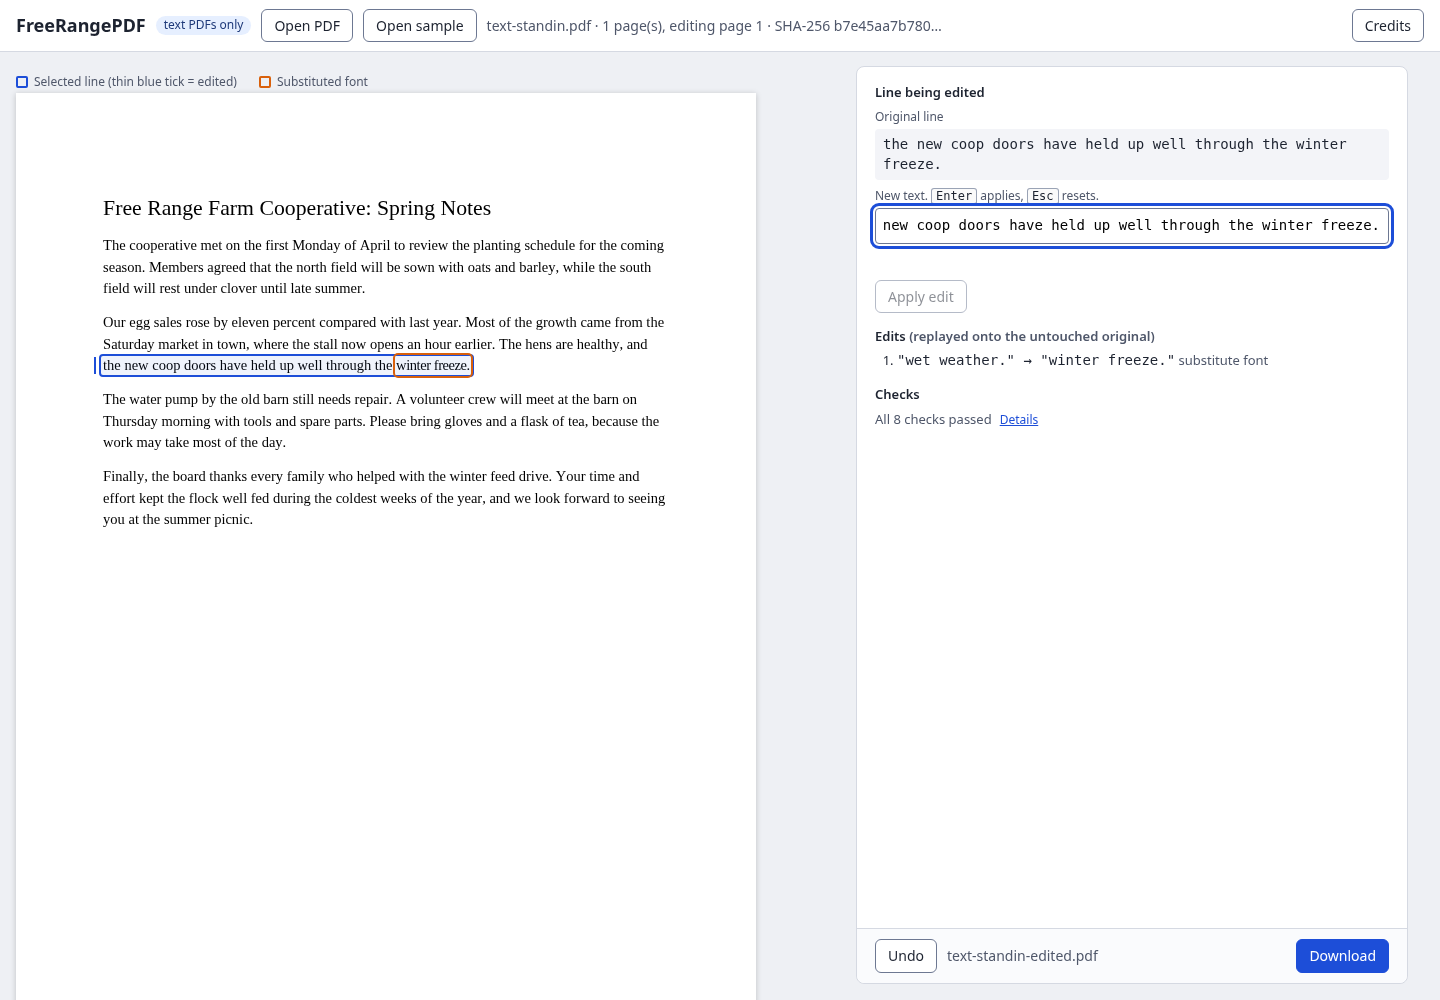
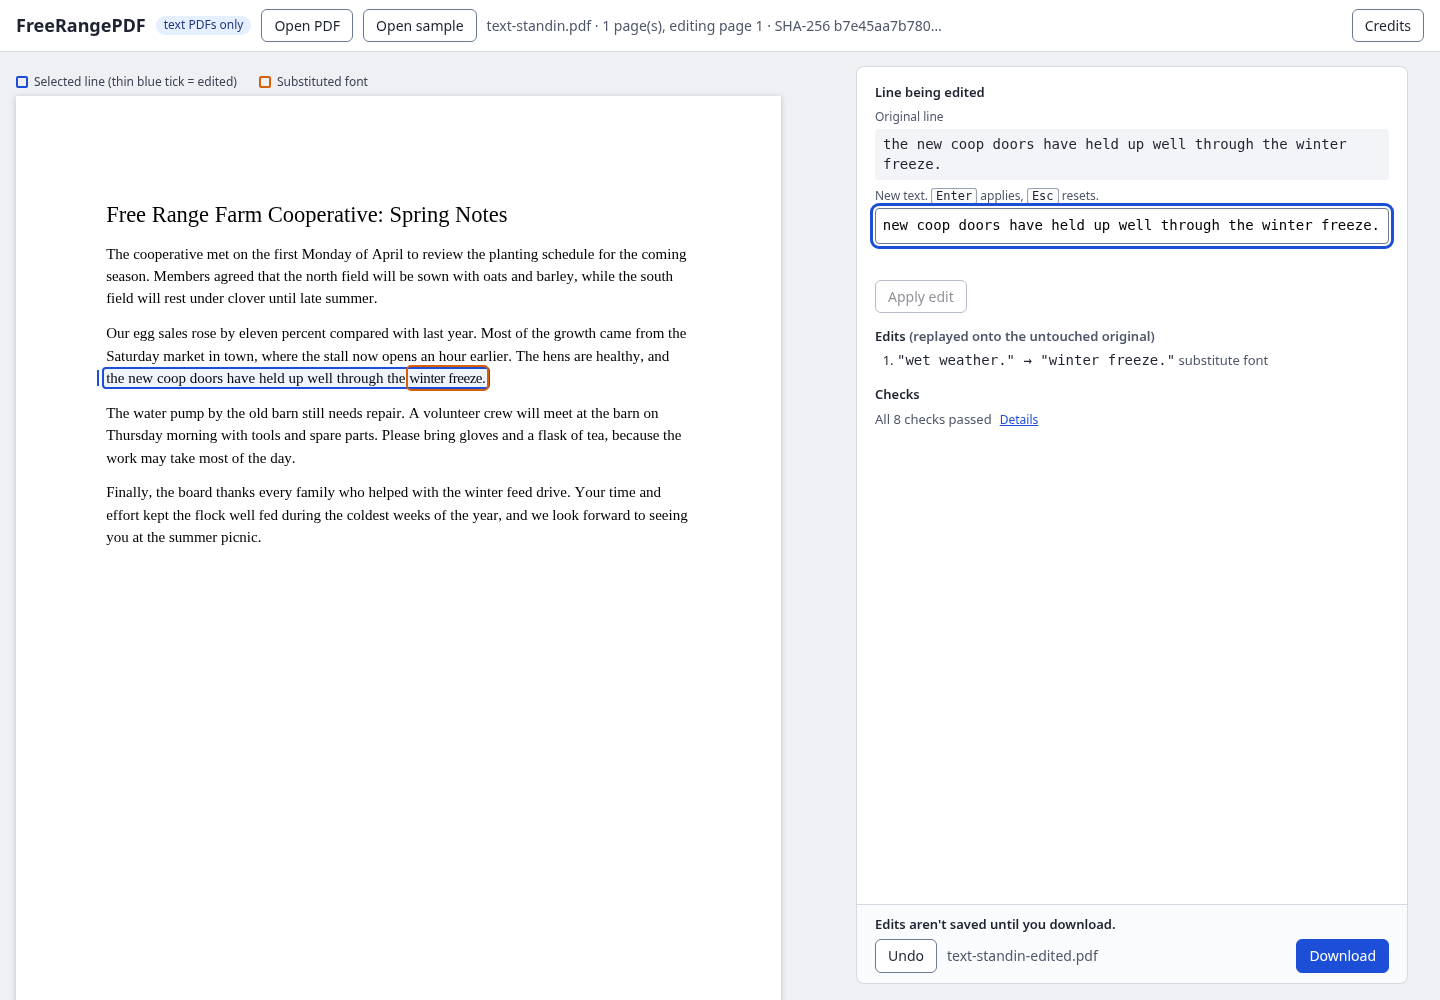
Editor: approved wording (no PLACEHOLDER, no pt figures), unsaved-edits line, queued undo, page scale, legend contrast, failed-open message

Changed region(s): [[0.0625, 0.186, 0.4688, 0.558], [0.5938, 0.899, 0.7812, 0.93], [0.5, 0.093, 0.5312, 0.124]]

diff --git a/app/app.js b/app/app.js
@@ -5,25 +5,34 @@ import { classifyPages } from '../src/lib/classify.js';
 import { renderPage, sha256, diff, pdfjsLib, openPdf } from '../src/lib/img-util.js';
 
 const SUBST_SENTENCE = "This PDF's font doesn't include every letter you typed, so the outlined text uses a close substitute font and may look slightly different.";
-const PH = 'PLACEHOLDER (wording for Berean): ';
 const MSG = {
-  notText: PH + 'This page has no editable text layer (it looks like a scan or a photo). This editor only changes PDFs that contain real text.',
-  tooLong: (o) => PH + `The new text is too long for the space it replaces (${o.over} pt over). Words to its right may not move, so nothing was changed.`,
-  cantEdit: "This line can't be edited here. Nothing was changed.", // draft wording (Berean to confirm); used for every unsupported line / unexpected error
-  password: "This PDF is password-protected, so it can't be opened here. Nothing was changed.", // draft, Berean to confirm
-  restricted: PH + "This PDF has editing restrictions, so it can't be edited here. Nothing was changed.",
-  empty: 'Type some text first. An empty line can\u2019t be applied.', // draft
+  notText: 'This page is a picture, like a scan or photo, so it has no text to edit. This editor only changes PDFs made of real text. Nothing was changed.',
+  tooLong: "That's too long to fit where the old words were, and the words after it can't move. Try something shorter. Nothing was changed.",
+  notFound: "I couldn't find those words in this file. Nothing was changed.",
+  cantEdit: "This line can't be edited here. The file stores it in a way this editor can't change safely. Nothing was changed.",
+  generic: "This edit couldn't be applied. Nothing was changed.",
+  password: "This PDF is password-protected, so it can't be opened here. Remove the password first, then try again.",
+  restricted: "This PDF is password-protected, so it can't be opened here. Remove the password first, then try again.", // owner-restricted PDFs: same approved wording
+  empty: 'Type the new text first. To remove words, delete them and keep the rest of the line.',
   charShort: "This character can't be used here",
   charLong: (c) => `This editor can't write that character: ${c}. Use letters, numbers and common punctuation.`,
-  unreadable: PH + 'This file could not be opened as a PDF. Nothing was changed.',
-  verifyFailed: PH + 'The edited file did not pass our re-open check, so Download is not offered.',
+  unreadable: "This file couldn't be opened as a PDF. Nothing was changed.",
+  verifyFailed: "The edited file didn't pass our check, so Download isn't offered. Your original is untouched.",
+  busy: 'Applying your edit, one moment.',
+  unsaved: "Edits aren't saved until you download.",
+  openFailedAfter: "That file couldn't be opened. The earlier file is closed.",
+  fits: 'Fits the old space.',
+  gap: (n) => `Shorter than the old word, so a gap of about ${n} ${n === 1 ? 'letter' : 'letters'} is left. Nothing to the right moves.`,
 };
 const $ = id => document.getElementById(id);
-const S = { name: '', orig: null, origSha: null, edits: [], cur: null, curRes: [], lines: [], vb: null, scale: 1, sel: -1, verified: false, busy: false, previewSeq: 0, lastPreview: null };
+const S = { pending: false, queuedUndo: false, name: '', orig: null, origSha: null, edits: [], cur: null, curRes: [], lines: [], vb: null, scale: 1, sel: -1, verified: false, busy: false, previewSeq: 0, lastPreview: null };
 const norm = t => (t || '').replace(/\s+/g, ' ').trim();
 const blobUrl = u8 => URL.createObjectURL(new Blob([u8], { type: 'application/pdf' }));
 const b64ToU8 = b => Uint8Array.from(atob(b), c => c.charCodeAt(0));
-function setBusy(b) { S.busy = b; $('busyflag').hidden = !b; $('rbody').setAttribute('aria-busy', b ? 'true' : 'false'); $('undo').disabled = b || !S.edits.length; if (b) $('download').disabled = true; }
+function refreshUndo() { $('undo').disabled = S.busy || S.pending || !S.edits.length; }
+function refreshNotes() { $('busynote').hidden = !(S.busy && S.rebuilding || S.pending); $('unsaved').hidden = !(S.edits.length && JSON.stringify(S.edits) !== S.savedKey); }
+function setBusy(b, rebuilding = false) { S.busy = b; S.rebuilding = b && rebuilding; $('busyflag').hidden = !b; $('rbody').setAttribute('aria-busy', b ? 'true' : 'false'); if (b) $('download').disabled = true; refreshUndo(); refreshNotes(); if (!b) runQueuedUndo(); }
+function runQueuedUndo() { if (S.queuedUndo && !S.busy && !S.pending) { S.queuedUndo = false; setTimeout(undo, 0); } }
 // Apply states: 'ok' (enabled), 'off' (nothing to apply), 'blocked' (looks disabled, still reachable: pressing it explains why; never applies)
 function setApply(state) { const a = $('apply'); S.applyState = state; a.disabled = state === 'off'; a.setAttribute('aria-disabled', state === 'ok' ? 'false' : 'true'); a.classList.toggle('blocked', state === 'blocked'); }
 const EMOJI_OK = new Set(['\u00a9', '\u00ae', '\u2122']);
@@ -62,7 +71,7 @@ function deriveEdit(oldT, newT) {
 async function showCurrent() {
   const rl = await readLines(S.cur); S.lines = rl.lines; S.vb = rl.viewBox;
   const doc = await openPdf(S.cur); const page = await doc.getPage(1);
-  const base = page.getViewport({ scale: 1 }); const sizes = S.lines.map(l => l.size).sort((a, b) => a - b); const medSize = sizes[sizes.length >> 1] || 11; S.scale = Math.min(824 / base.width, 14.5 / medSize); const vp = page.getViewport({ scale: S.scale });
+  const base = page.getViewport({ scale: 1 }); const sizes = S.lines.map(l => l.size).sort((a, b) => a - b); const medSize = sizes[sizes.length >> 1] || 11; S.scale = Math.min(824 / base.width, 15 / medSize); /* fit the left column (824 px), but keep body text at most 15 px */ const vp = page.getViewport({ scale: S.scale });
   const c = $('page'); c.width = Math.round(vp.width); c.height = Math.round(vp.height);
   const ctx = c.getContext('2d'); ctx.fillStyle = '#fff'; ctx.fillRect(0, 0, c.width, c.height);
   await page.render({ canvasContext: ctx, viewport: vp, background: 'rgb(255,255,255)' }).promise; await doc.destroy();
@@ -110,19 +119,20 @@ async function preview() {
   try {
     const r = await applyOne(S.cur, e); if (seq !== S.previewSeq) return;
     showPreview(r, e);
-  } catch (err) { if (seq !== S.previewSeq) return; resetPreview(); console.warn('preview failed:', err && err.message); showRefusal(MSG.cantEdit); }
+  } catch (err) { if (seq !== S.previewSeq) return; resetPreview(); console.warn('preview failed:', err && err.message); showRefusal(...errMsg(err)); }
 }
 function showCharMark(t) { // orange underline under each unsupported character + the short inline message
   const m = $('charmirror'); m.textContent = ''; for (const ch of t) { if (badChar(ch)) { const sp = document.createElement('span'); sp.className = 'badch'; sp.textContent = /\p{Cc}|\p{Cf}/u.test(ch) ? '\u00b7' : ch; m.appendChild(sp); } else m.appendChild(document.createTextNode(ch)); }
   $('charmsg').textContent = MSG.charShort; $('charmark').hidden = false;
 }
-function showRefusal(text) { $('refuse').hidden = false; $('refuse').textContent = text; $('status').textContent = ''; setApply('off'); }
-function widthNote(o) { // plain-words draft (wording is Berean's)
-  if (o.gapPt > 0) return `Shorter by ${o.gapPt.toFixed(1)} pt. The words to the right stay where they are, so a gap remains.`;
+function showRefusal(text, reason) { const r = $('refuse'); r.hidden = false; r.textContent = text; if (reason) { const d = document.createElement('div'); d.className = 'reason'; d.textContent = reason; r.appendChild(d); } $('status').textContent = ''; setApply('off'); }
+function errMsg(err) { const m = (err && err.message) || ''; if (err && err.refused) return [MSG.tooLong]; if (/not found/.test(m)) return [MSG.notFound]; if (/exactly once|cannot|unsupported/i.test(m)) return [MSG.cantEdit]; return [MSG.generic, m || String(err)]; }
+function widthNote(o, e) {
+  if (o.gapPt > 0) { const len = Math.max(1, (e.replace || '').length), n = Math.max(1, Math.round(o.gapPt / ((o.naturalWidthPt || 1) / len))); return MSG.gap(n); }
   const parts = []; const sp = o.spacingEm || 0, sc = o.scale || 1;
-  if (Math.abs(sp) >= 0.0005) parts.push(`letters ${sp < 0 ? 'tightened' : 'loosened'} by ${(Math.abs(sp) * 100).toFixed(0)}%`);
-  if (Math.abs(sc - 1) >= 0.0005) parts.push(`text ${sc < 1 ? 'narrowed' : 'widened'} by ${(Math.abs(sc - 1) * 100).toFixed(0)}%`);
-  return parts.length ? `Fits: ${parts.join(', ')}.` : 'Fits: same width, nothing adjusted.';
+  if (Math.abs(sp) >= 0.0005) parts.push(`Letters ${sp < 0 ? 'tightened' : 'loosened'} by ${(Math.abs(sp) * 100).toFixed(0)}%.`);
+  if (Math.abs(sc - 1) >= 0.0005) parts.push(`Text ${sc < 1 ? 'narrowed' : 'widened'} by ${(Math.abs(sc - 1) * 100).toFixed(0)}%.`);
+  return parts.length ? `Fits. ${parts.join(' ')}` : MSG.fits;
 }
 // preview strip: ONLY the edited line (+4 px), 8 px padding, rendered from the trial result; orange box when the font is substituted
 async function drawStrip(r, line) {
@@ -135,10 +145,10 @@ async function drawStrip(r, line) {
 }
 function showPreview(r, e) {
   for (const id of ['gapbar', 'subst', 'refuse', 'crop']) $(id).hidden = true; const o = r.overflow;
-  if (r.refused) { showRefusal(MSG.tooLong({ over: (-o.leftoverAfterSpacingAndScalePt).toFixed(2) })); S.lastPreview = null; return; }
+  if (r.refused) { showRefusal(MSG.tooLong); S.lastPreview = null; return; }
   const slot = o.slotPt, nat = o.naturalWidthPt; $('gapbar').hidden = false;
   const drawn = o.gapPt > 0 ? nat : slot; $('gapnat').style.width = (drawn / slot * 100) + '%'; $('gapgap').style.width = (o.gapPt > 0 ? o.gapPt / slot * 100 : 0) + '%';
-  $('gaptext').textContent = widthNote(o);
+  $('gaptext').textContent = widthNote(o, e);
   if (r.font.used === 'fallback') { $('subst').hidden = false; $('subst').textContent = SUBST_SENTENCE; }
   drawStrip(r, S.lines[S.sel]).catch(err => console.error("strip", err.message));
   $('status').textContent = `Ready: "${e.find}" \u2192 "${e.replace}"`; setApply('ok'); S.lastPreview = e;
@@ -146,30 +156,37 @@ function showPreview(r, e) {
 
 // ---- apply / undo / verify ----
 async function rebuild() {
-  setBusy(true); try {
+  setBusy(true, true); try {
     if (!S.edits.length) { S.cur = S.orig.slice(); S.curRes = []; } else { const { bytes, results } = await replay(S.edits); S.cur = bytes; S.curRes = results; }
     await showCurrent(); renderEdits(); await verify();
   } finally { setBusy(false); }
 }
 $('apply').addEventListener('click', tryApply);
 function tryApply() { // Apply is pressed (button or Enter)
-  if (S.busy) return; clearTimeout(timer);
+  if (S.busy || S.pending) return; clearTimeout(timer);
   if (S.applyState === 'ok') return applyEdit();
   const t = $('newtext').value, bad = findBad(t);
   if (bad.length) { showCharMark(t); $('charmsg').textContent = MSG.charLong(showCp(bad[0])); return; } // longer sentence only when Apply is pressed; nothing is applied
   if (!t.trim()) { $('status').textContent = MSG.empty; return; }
-  preview().then(() => { if (S.applyState === 'ok') applyEdit(); });
+  S.pending = true; refreshUndo(); refreshNotes();
+  preview().then(() => { if (S.applyState === 'ok') return applyEdit(true); }).finally(() => endPending());
 }
-async function applyEdit() {
-  if (!S.lastPreview || S.busy) return; const e = { ...S.lastPreview }; delete e.line; S.edits.push(e); setApply('off');
+function endPending() { S.pending = false; refreshUndo(); refreshNotes(); runQueuedUndo(); }
+async function applyEdit(inChain) {
+  if (!S.lastPreview || S.busy) return; const e = { ...S.lastPreview }; delete e.line; S.edits.push(e); setApply('off'); S.pending = true; refreshUndo(); refreshNotes();
   try { await rebuild(); $('newtext').value = S.lines[S.sel]?.text || ''; resetPreview(); }
-  catch (err) { S.edits.pop(); await rebuild(); showRefusal(err.refused ? MSG.tooLong({ over: '?' }) : MSG.cantEdit); }
+  catch (err) { S.edits.pop(); S.queuedUndo = false; await rebuild(); showRefusal(...errMsg(err)); }
+  finally { if (!inChain) endPending(); }
 }
-async function undo() { if (!S.edits.length || S.busy) return; S.edits.pop(); await rebuild(); if (S.sel >= 0) { $('newtext').value = S.lines[S.sel]?.text || ''; resetPreview(); } }
-$('undo').addEventListener('click', undo);
+function requestUndo() { // never silent: while an apply is starting/running the undo is queued and the user is told why
+  if (S.busy || S.pending) { S.queuedUndo = true; $('busynote').hidden = false; return; }
+  undo();
+}
+async function undo() { if (!S.edits.length || S.busy || S.pending) return; S.edits.pop(); await rebuild(); if (S.sel >= 0) { $('newtext').value = S.lines[S.sel]?.text || ''; resetPreview(); } }
+$('undo').addEventListener('click', requestUndo);
 function renderEdits() {
-  $('edits').innerHTML = S.edits.map((e, k) => { const r = S.curRes[k]; return `<li><span class="mono">"${esc(e.find)}" \u2192 "${esc(e.replace)}"</span> <span class="muted">${r ? (r.font.used === 'fallback' ? 'substitute font' : 'original font') + (r.overflow.gapPt > 0 ? `, gap ${r.overflow.gapPt.toFixed(1)} pt` : '') : ''}</span></li>`; }).join('') || '<li class="muted">none</li>';
-  $('undo').disabled = S.busy || !S.edits.length;
+  $('edits').innerHTML = S.edits.map((e, k) => { const r = S.curRes[k]; return `<li><span class="mono">"${esc(e.find)}" \u2192 "${esc(e.replace)}"</span> <span class="muted">${r ? (r.font.used === 'fallback' ? 'substitute font' : 'original font') + (r.overflow.gapPt > 0 ? `, small gap left` : '') : ''}</span></li>`; }).join('') || '<li class="muted">none</li>';
+  refreshUndo(); refreshNotes();
 }
 const esc = s => s.replace(/[&<>"]/g, c => ({ '&': '&amp;', '<': '&lt;', '>': '&gt;', '"': '&quot;' }[c]));
 function outName() { const b = S.name.replace(/\.pdf$/i, ''); return (/-edited(-\d+)?$/.test(b) ? b.replace(/-edited(-(\d+))?$/, (m, x, n) => `-edited-${(+n || 1) + 1}`) : b + '-edited') + '.pdf'; }
@@ -202,20 +219,20 @@ async function verify() {
   sum.className = nbad ? 'fail' : 'muted'; sum.textContent = nbad ? `${nbad} of ${items.length} checks failed` : `All ${items.length} checks passed`;
   det.hidden = false; ul.hidden = !nbad; det.textContent = nbad ? 'Hide details' : 'Details'; // failed checks stay open
   S.verified = items.every(i => i[0]);
-  if (S.verified) { $('download').disabled = false; $('dlname').textContent = outName(); } else { $('dlname').textContent = ''; sum.textContent += '. ' + MSG.verifyFailed; }
+  if (S.verified) { $('download').disabled = false; $('dlname').textContent = outName(); } else { $('dlname').textContent = ''; sum.textContent = MSG.verifyFailed; const rs = document.createElement('div'); rs.className = 'reason'; rs.textContent = `${nbad} of ${items.length} checks failed: ` + items.filter(i => !i[0]).map(i => i[1]).join('; '); sum.appendChild(rs); }
 }
 $('checkdetails').addEventListener('click', ev => { ev.preventDefault(); const ul = $('checks'); ul.hidden = !ul.hidden; $('checkdetails').textContent = ul.hidden ? 'Details' : 'Hide details'; });
-$('download').addEventListener('click', () => { if (!S.verified) return; const a = document.createElement('a'); a.href = blobUrl(S.cur); a.download = outName(); a.click(); S.savedKey = JSON.stringify(S.edits); setTimeout(() => URL.revokeObjectURL(a.href), 5000); });
+$('download').addEventListener('click', () => { if (!S.verified) return; const a = document.createElement('a'); a.href = blobUrl(S.cur); a.download = outName(); a.click(); S.savedKey = JSON.stringify(S.edits); refreshNotes(); setTimeout(() => URL.revokeObjectURL(a.href), 5000); });
 
 // ---- open ----
 function resetDoc() { // FIRST thing on every open: nothing of a previous document may stay live
-  S.cur = null; S.orig = null; S.origSha = null; S.edits = []; S.curRes = []; S.lines = []; S.sel = -1; S.verified = false; S.lastPreview = null; S.savedKey = null; S.name = ''; S.previewSeq++;
-  clearTimeout(timer); $('download').disabled = true; $('undo').disabled = true; $('dlname').textContent = ''; setApply('off'); $('docinfo').textContent = '';
+  S.cur = null; S.orig = null; S.queuedUndo = false; S.pending = false; S.origSha = null; S.edits = []; S.curRes = []; S.lines = []; S.sel = -1; S.verified = false; S.lastPreview = null; S.savedKey = null; S.name = ''; S.previewSeq++;
+  clearTimeout(timer); $('download').disabled = true; $('undo').disabled = true; refreshNotes(); $('dlname').textContent = ''; setApply('off'); $('docinfo').textContent = '';
   $('editor').hidden = true; $('nosel').hidden = false; $('nosel').className = 'muted'; $('nosel').textContent = 'No line selected.'; $('overlay').innerHTML = ''; $('legendwrap').hidden = true;
   const c = $('page'); c.width = 1; c.height = 1; $('checks').hidden = true; $('checkdetails').hidden = true; $('checksum').className = 'muted'; $('checksum').textContent = 'No edits yet.'; $('edits').innerHTML = '';
   for (const id of ['gapbar', 'subst', 'refuse', 'crop', 'charmark']) $(id).hidden = true;
 }
-function failOpen(text) { resetDoc(); $('nosel').className = 'refuse'; $('nosel').textContent = text; }
+function failOpen(text) { resetDoc(); $('nosel').className = 'refuse'; $('nosel').textContent = text; if (S.everOpened) { const d = document.createElement('div'); d.className = 'reason'; d.textContent = MSG.openFailedAfter; $('nosel').appendChild(d); } }
 let openSeq = 0;
 async function openBytes(u8, name) {
   const my = ++openSeq; resetDoc(); setBusy(true);
@@ -228,7 +245,7 @@ async function openBytes(u8, name) {
       return failOpen(MSG.unreadable); }
     const cls = classifyPages(pd)[0];
     const sha = await sha256(u8); if (my !== openSeq) return;
-    S.name = name; S.orig = new Uint8Array(u8); S.origSha = sha; S.edits = []; S.curRes = []; S.sel = -1; S.cur = S.orig.slice();
+    S.everOpened = true; S.name = name; S.orig = new Uint8Array(u8); S.origSha = sha; S.edits = []; S.curRes = []; S.sel = -1; S.cur = S.orig.slice();
     $('docinfo').textContent = `${name}  \u00b7  ${pd.getPageCount()} page(s), editing page 1  \u00b7  SHA-256 ${S.origSha.slice(0, 12)}\u2026`;
     if (cls.route !== 'text') { const msg = MSG.notText; await showCurrent().catch(() => {}); if (my !== openSeq) return; $('nosel').className = 'refuse'; $('nosel').textContent = msg; $('overlay').innerHTML = ''; S.lines = []; return; }
     await showCurrent(); if (my !== openSeq) return; $('legendwrap').hidden = false; renderEdits(); await verify(); select(0, false, false, false);
@@ -245,7 +262,7 @@ document.addEventListener('keydown', ev => {
   if (ev.key === 'Enter' && inInput) { ev.preventDefault(); tryApply(); }
   else if (ev.key === 'Escape') { if ($('credits').hidden === false) { $('credits').hidden = true; $('creditsBtn').focus(); } else if (S.sel >= 0) { $('newtext').value = S.lines[S.sel].text; resetPreview(); } }
   else if (inInput && ev.altKey && (ev.key === 'ArrowUp' || ev.key === 'ArrowDown') && S.lines.length) { ev.preventDefault(); select(Math.max(0, Math.min(S.lines.length - 1, S.sel + (ev.key === 'ArrowDown' ? 1 : -1)))); }
-  else if ((ev.ctrlKey || ev.metaKey) && ev.key.toLowerCase() === 'z' && (!inInput || $('newtext').value === S.lines[S.sel]?.text)) { ev.preventDefault(); undo(); }
+  else if ((ev.ctrlKey || ev.metaKey) && ev.key.toLowerCase() === 'z' && (!inInput || S.busy || S.pending || $('newtext').value === S.lines[S.sel]?.text)) { ev.preventDefault(); requestUndo(); }
 });
 // unsaved edits: ask before leaving
 window.addEventListener('beforeunload', ev => { if (S.edits.length && JSON.stringify(S.edits) !== S.savedKey) { ev.preventDefault(); ev.returnValue = ''; } });

diff --git a/app/app.css b/app/app.css
@@ -9,9 +9,9 @@ main{display:flex;gap:16px;padding:14px 16px;align-items:flex-start}
 .ln{position:absolute;cursor:pointer;border-radius:2px}.ln:hover{background:#1d4ed81a}.ln.sel{outline:2px solid #1d4ed8;background:#1d4ed812}
 .ln.edited::before{content:"";position:absolute;left:-7px;top:1px;bottom:1px;width:2px;background:#1d4ed8}
 .ln.substspan{outline:2px solid #d9600b;outline-offset:1px}
-.legend{display:flex;gap:22px;margin:8px 0 2px;font-size:12px;color:#4f576a}.sw{display:inline-block;width:12px;height:12px;margin-right:6px;vertical-align:-2px;border-radius:2px}.sw.blue{border:2px solid #1d4ed8}.sw.orange{border:2px solid #d9600b}
+.legend{display:flex;gap:22px;margin:8px 0 6px;font-size:12px;line-height:16px;color:#3a4254}.sw{display:inline-block;width:12px;height:12px;margin-right:6px;vertical-align:-2px;border-radius:2px}.sw.blue{border:2px solid #1d4ed8}.sw.orange{border:2px solid #d9600b}
 #right{width:552px;flex:none;background:#fff;border:1px solid #d5d9e2;border-radius:8px;display:flex;flex-direction:column;height:calc(100vh - 82px);min-height:560px}
-#rbody{flex:1;overflow:auto;padding:2px 18px 12px}#rfoot{display:flex;gap:10px;align-items:center;padding:10px 18px;border-top:1px solid #d5d9e2;background:#fafbfd;border-radius:0 0 8px 8px}
+#rbody{flex:1;overflow:auto;padding:2px 18px 12px}#rfoot{display:flex;flex-direction:column;gap:6px;padding:10px 18px;border-top:1px solid #d5d9e2;background:#fafbfd;border-radius:0 0 8px 8px}#footrow{display:flex;gap:10px;align-items:center}#footnotes{font-size:13px;color:#1d2330;display:flex;gap:14px;min-height:0}#footnotes span{font-weight:600}.reason{margin-top:4px;font-size:12px;color:#4f576a;font-weight:400}
 .mono{font:14px/1.4 ui-monospace,Menlo,Consolas,monospace}#orig{padding:6px 8px;background:#f3f4f8;border-radius:4px;white-space:pre-wrap}
 #newtext{width:100%;padding:7px 8px;border:1px solid #6d7892;border-radius:4px}.lbl,label.lbl{display:block;font-size:12px;color:#4f576a;margin:8px 0 3px}
 kbd{border:1px solid #9aa3b5;border-bottom-width:2px;border-radius:3px;padding:0 4px;font-size:12px;background:#fafafa;color:#1d2330}
@@ -21,8 +21,8 @@ kbd{border:1px solid #9aa3b5;border-bottom-width:2px;border-radius:3px;padding:0
 .refuse{margin-top:8px;padding:8px 10px;border:1px solid #b42318;border-radius:6px;background:#fff0f0;color:#7a1111;font-size:13px}
 #crop{display:block;max-width:100%;margin-top:8px;border:1px solid #c5cbd8}
 #edits{margin:0;padding-left:22px;font-size:13px}#edits li{margin:2px 0}
-.checks{list-style:none;margin:6px 0 0;padding:0;font-size:13px}.checks li{padding:1px 0}.ok::before{content:"\2713 ";color:#146c43;font-weight:700}.bad{color:#9b1c10}.bad::before{content:"\2717 ";font-weight:700}
-#checksum{font-size:13px;display:inline}#checksum.fail{color:#9b1c10;font-weight:600}#checkdetails{margin-left:8px;font-size:12px;color:#1d4ed8}
+.checks{list-style:none;margin:6px 0 0;padding:0;font-size:13px}.checks li{padding:1px 0}.ok::before{content:"\2713 ";color:#146c43;font-weight:700}.bad{color:#1d2330}.bad::before{content:"\2717 ";font-weight:700}
+#checksum{font-size:13px;display:inline}#checksum.fail{color:#1d2330;font-weight:600}#checksum.fail .reason{font-weight:400}#checkdetails{margin-left:8px;font-size:12px;color:#1d4ed8}
 .hint{color:#4f576a;font-size:12px;margin:4px 0}#credits{position:fixed;inset:0;background:#0006;display:flex;justify-content:center;padding-top:40px}
 #credits .card{background:#fff;width:900px;max-height:80vh;overflow:auto;border-radius:8px;padding:12px 24px}#credits table{border-collapse:collapse;width:100%}#credits td,#credits th{border-bottom:1px solid #e1e4ea;padding:5px 8px;text-align:left;vertical-align:top;font-size:13px}
 [hidden]{display:none!important}
@@ -31,3 +31,4 @@ kbd{border:1px solid #9aa3b5;border-bottom-width:2px;border-radius:3px;padding:0
 #apply.blocked{opacity:.5;cursor:not-allowed}
 #charmark{margin-top:6px}#charmirror{padding:4px 8px;background:#fff6ee;border:1px solid #d9600b;border-radius:4px;white-space:pre-wrap;word-break:break-word}.badch{text-decoration:underline;text-decoration-color:#d9600b;text-decoration-thickness:3px;text-underline-offset:3px;background:#ffe3cc}
 #charmsg{font-size:13px;color:#8a3a00;margin-top:3px}
+#checksum.fail{display:block}#footnotes:not(:has(span:not([hidden]))){display:none}

diff --git a/app/index.html b/app/index.html
@@ -41,7 +41,7 @@
     <h2>Checks</h2>
     <div id="checkwrap"><div id="checksum" class="muted">No edits yet.</div><a href="#" id="checkdetails" hidden>Details</a><ul id="checks" class="checks" hidden></ul></div>
     </div>
-    <div id="rfoot"><button id="undo" class="btn" disabled title="Ctrl+Z">Undo</button><span id="dlname" class="muted"></span><span class="spacer"></span><button id="download" class="btn primary" disabled>Download</button></div>
+    <div id="rfoot"><div id="footnotes"><span id="busynote" hidden>Applying your edit, one moment.</span><span id="unsaved" hidden>Edits aren't saved until you download.</span></div><div id="footrow"><button id="undo" class="btn" disabled title="Ctrl+Z">Undo</button><span id="dlname" class="muted"></span><span class="spacer"></span><button id="download" class="btn primary" disabled>Download</button></div></div>
   </section>
 </main>
 <div id="credits" hidden><div class="card"><button id="creditsClose" class="btn">Close</button><h2>Credits</h2><div id="creditsBody"></div></div></div>
